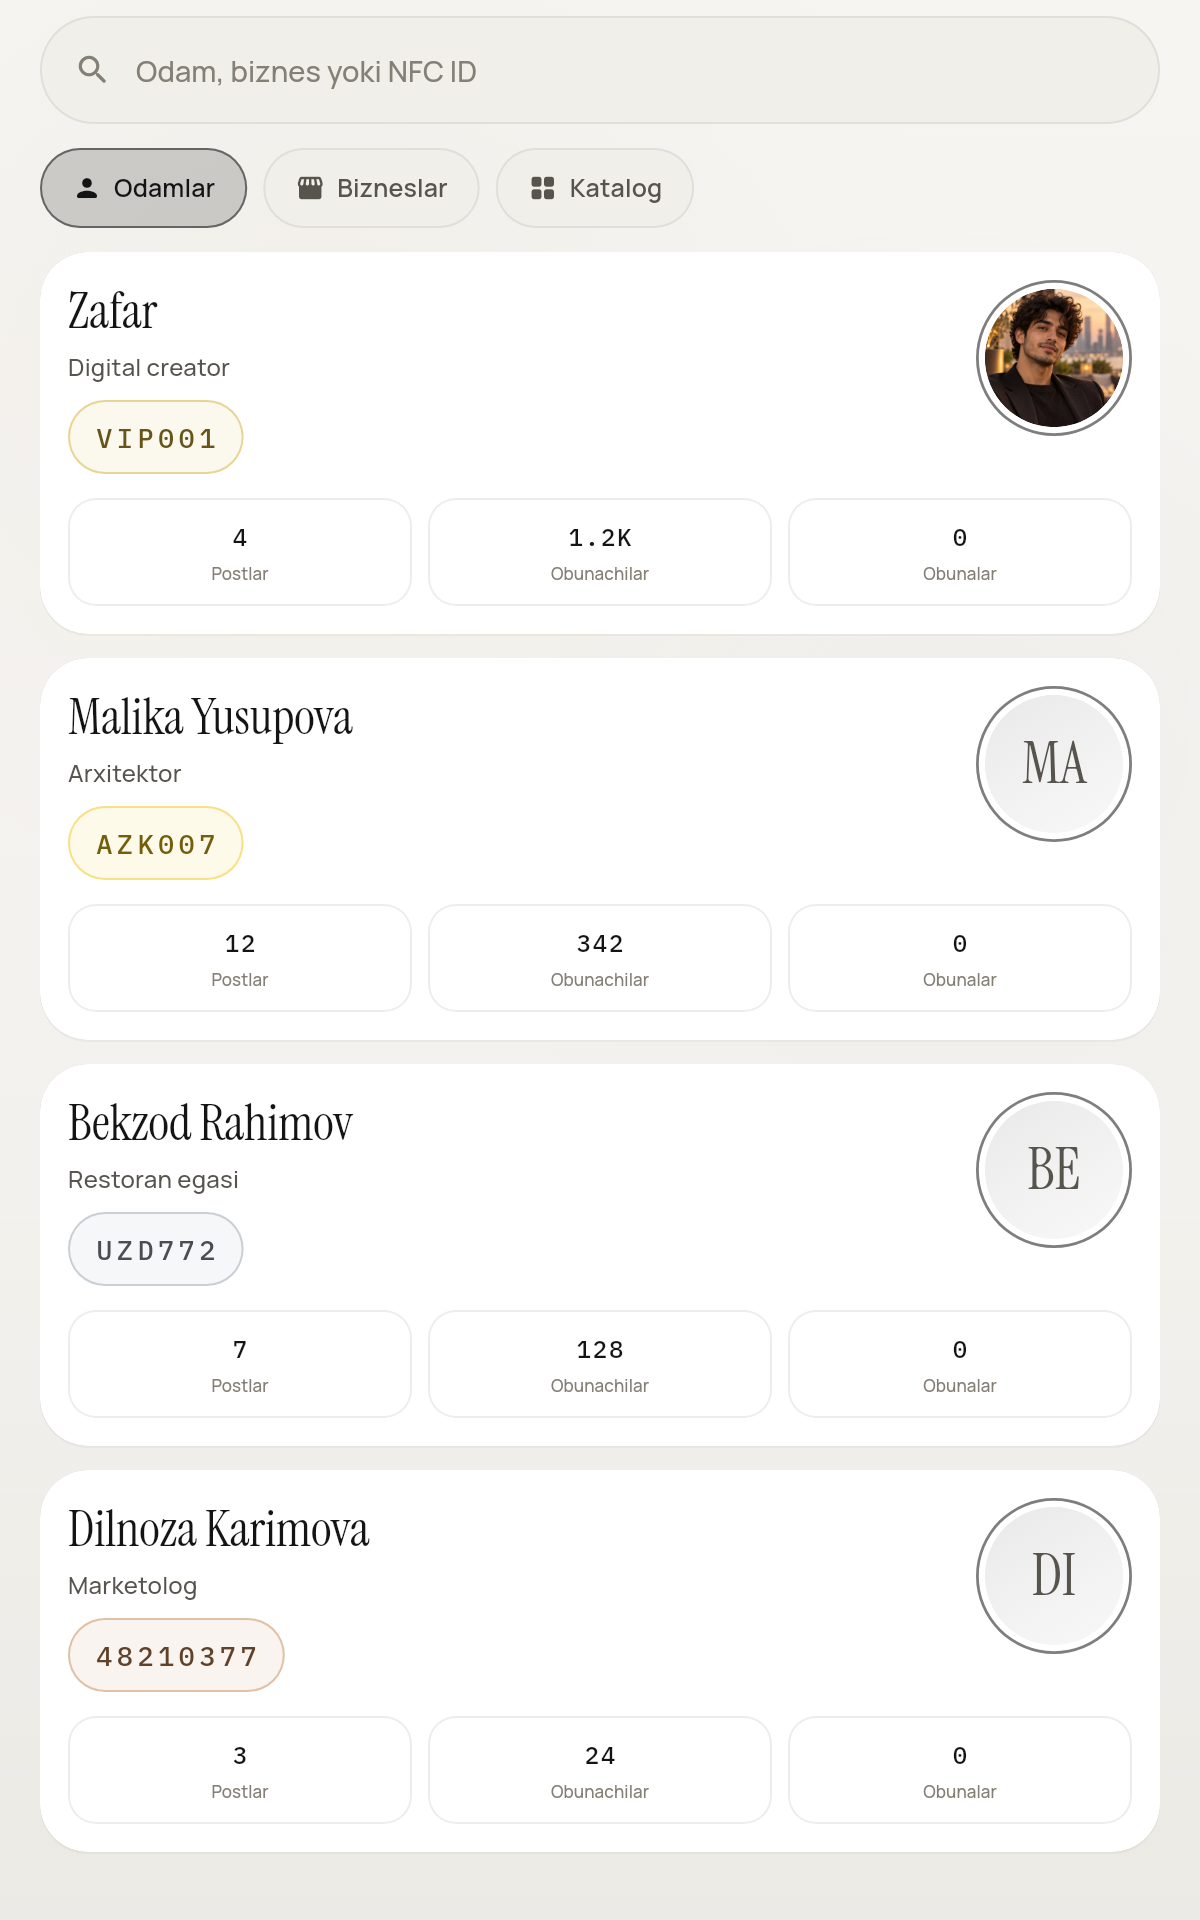
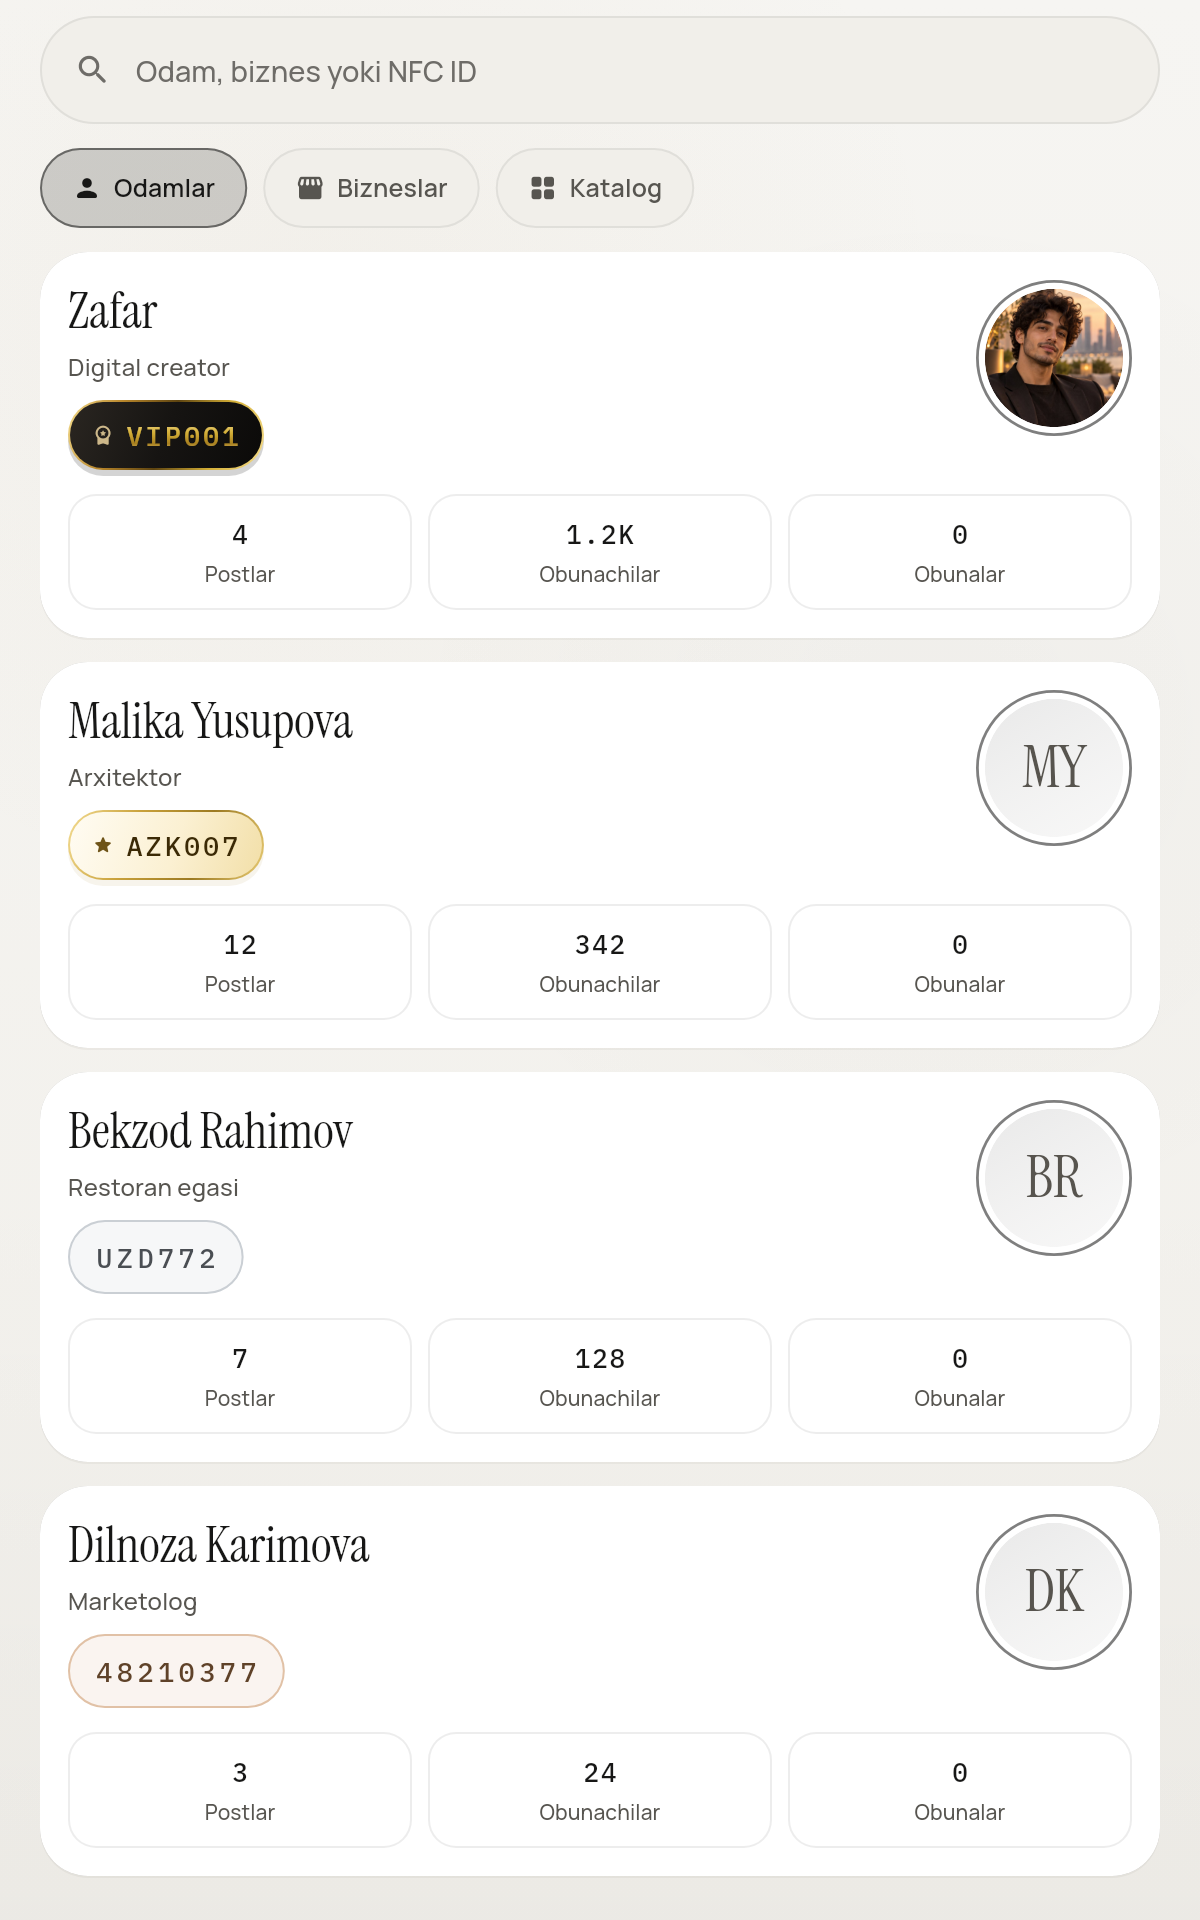
Play skrinshotlar 1.1.0: yangi dizayn, 8-surat Noir, 24-bit PNG (alfa yo'q)
Claude-Session: https://claude.ai/code/session_01X3fizJ3F3nvfvUZqdZamcq

diff --git a/mobile_nova/test/shots/play_store_shot.dart b/mobile_nova/test/shots/play_store_shot.dart
@@ -303,11 +303,11 @@ void main() {
     });
   }
 
-  testWidgets('play 8 — Oq-qora mavzu', (t) async {
-    // Bitta surat MUQOBIL mavzuda: ilovada tanlov borligi
-    // do'konda ham ko'rinsin.
+  testWidgets('play 8 — Noir mavzu', (t) async {
+    // Bitta surat MUQOBIL (qorong'i) mavzuda: standart Ivory bo'lgani
+    // uchun oq-qora surat profil surati bilan bir xil chiqardi.
     await shot(t, const ProfileScreen(code: kDemoPersonalCode),
-        'play-8-oq-qora', tokens: NfcTokens.mono);
+        'play-8-noir', tokens: NfcTokens.noir);
   });
 }
 

diff --git a/docs/play-assets/README.md b/docs/play-assets/README.md
@@ -6,7 +6,9 @@ Play Console → **Store listing → Graphics** bo'limiga yuklanadi.
 |---|---|---|
 | `play-icon-512.png` | 512×512 | **App icon** |
 | `play-feature-1024x500.png` | 1024×500 | **Feature graphic** |
-| `../../mobile_nova/test/shots/png/play-*.png` | 1080×1920 | **Phone screenshots** (5 ta) |
+| `telefon/*.png` | 1080×1920, 24-bit PNG | **Phone screenshots** (6 ta; 8-chi — Noir mavzu) |
+| `planshet-7/*.png` | 1200×1920 | **7-inch tablet screenshots** (4 ta) |
+| `planshet-10/*.png` | 1600×2560 | **10-inch tablet screenshots** (4 ta) |
 
 ## Nega yangi belgi yasaldi
 
@@ -53,3 +55,10 @@ deb tushunib ketmasligi kerak.
 Google uni turli o'lchamda QIRQADI. Shuning uchun matn markazga
 yaqin turadi va chetlarda hech narsa yo'q. Agar keyinroq matn
 qo'shsangiz, chetdan kamida 100 px joy qoldiring.
+
+## Skrinshotlarni yangilash (2026-09, 1.1.0)
+
+    cd mobile_nova
+    flutter test test/shots/play_store_shot.dart --run-skipped -t shots --update-goldens
+    # keyin test/shots/png/play-*.png -> docs/play-assets/{telefon,planshet-7,planshet-10}/
+    # va RGB ga o'tkazish (Play skrinshotda alfa kanalni QABUL QILMAYDI)
